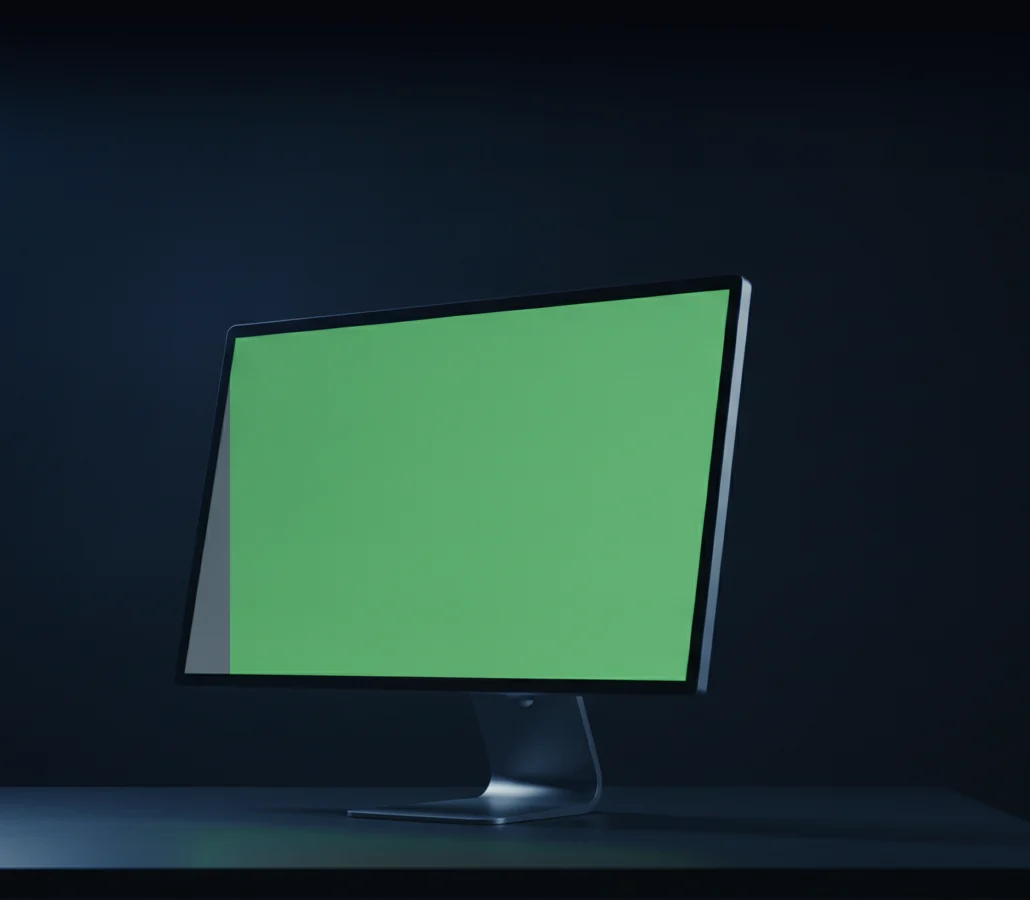
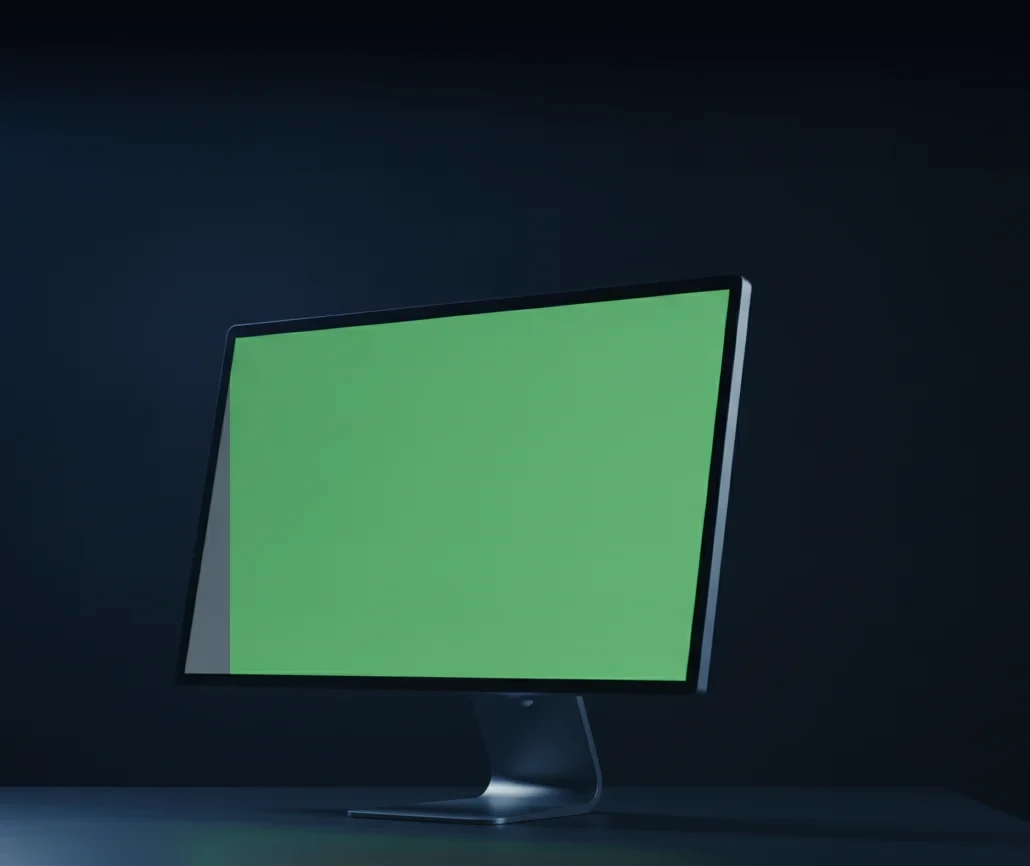
LP Websites: a foto do monitor encosta na régua dos números
Entre o fim do herói e a régua dos números ficava uma faixa escura que
parecia um erro. Não era espaço: era a própria fotografia, que trazia por
baixo da secretária uns 32 px da frente da mesa em sombra. A foto passa a
ser cortada rente à aresta da secretária (linha 866 de 900) e a altura em
lib/lp-monitor.ts acompanha — os cantos do ecrã são medidos a partir do
topo, por isso não mudam. A superfície da mesa toca agora na linha da
régua a 1280, 1440, 1920 e 2560 de largura. O portátil dos Softwares já ia
até ao fundo.

Changed region(s): [[0.0, 0.3118, 1.0, 1.0], [0.1864, 0.4988, 0.2175, 0.6859]]

diff --git a/lib/lp-monitor.ts b/lib/lp-monitor.ts
@@ -18,11 +18,13 @@ export type Aparelho = {
 };
 
 /** Monitor de secretária, ligeiramente de lado. Os 170px de cima são fundo
- *  prolongado por síntese, para a foto ter ar antes do monitor. */
+ *  prolongado por síntese, para a foto ter ar antes do monitor; em baixo a foto
+ *  é cortada rente à aresta da secretária, para encostar na secção seguinte
+ *  sem a faixa escura da frente da mesa. */
 export const MONITOR: Aparelho = {
   src: "/img/lp/aldurr/monitor.webp",
   largura: 1030,
-  altura: 900,
+  altura: 866,
   cantos: [
     [234, 336],
     [730, 287],
